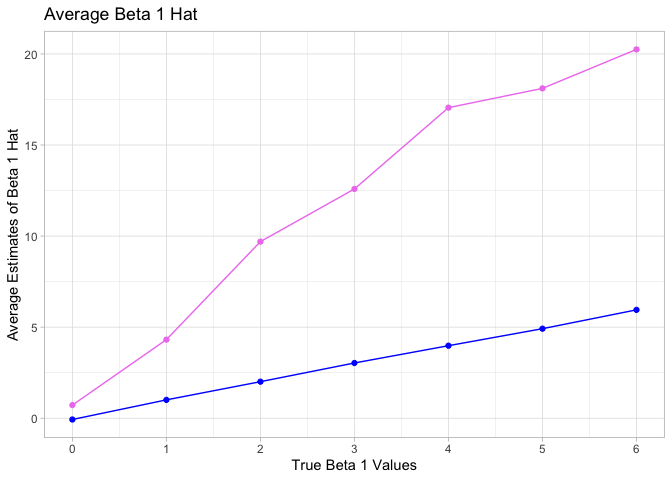
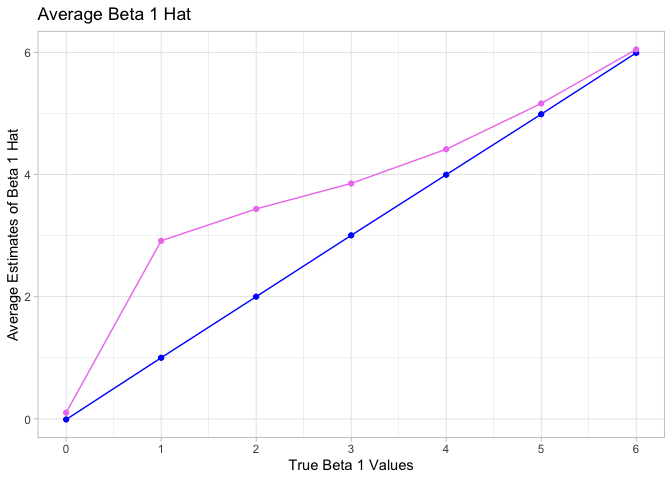
accidentally used variance instead of sd in sim, so fixed that...

diff --git a/p8105_hw5_ps3070.md b/p8105_hw5_ps3070.md
@@ -389,7 +389,7 @@ set.seed(1)
 n = 30
 x_i1 = rnorm(n, 0, 1) #x draws from standard normal dist so mean is 0 and sd is 1
 beta0 = 2
-sd = 50 
+sd = sqrt(50) #variance was given but SD is used in rnorm() function, so I set up SD instead
 
 beta1 = 0
 ```
@@ -406,8 +406,8 @@ Below, I created a simulation function that can do this for me.
 sim = function(n = 30, beta0 = 2, beta1 = 0) {
   
   sim_data = tibble(
-    x_i1 = rnorm(n, mean = 0, sd = 1),
-    y = beta0 + beta1 * x_i1 + rnorm(n, 0, 50)
+    x_i1 = rnorm(n, 0, 1),
+    y = beta0 + beta1 * x_i1 + rnorm(n, 0, sd) #using sd as i set it earlier
   )
   
   ls_fit = lm(y ~ x_i1, data = sim_data) %>% 
@@ -464,7 +464,7 @@ p.value
 0
 </td>
 <td style="text-align:right;">
-5.458878
+0.7720020
 </td>
 <td style="text-align:right;">
 0.6054179
@@ -475,7 +475,7 @@ p.value
 0
 </td>
 <td style="text-align:right;">
-12.446899
+1.7602573
 </td>
 <td style="text-align:right;">
 0.2407264
@@ -486,7 +486,7 @@ p.value
 0
 </td>
 <td style="text-align:right;">
--11.355558
+-1.6059185
 </td>
 <td style="text-align:right;">
 0.3018991
@@ -497,7 +497,7 @@ p.value
 0
 </td>
 <td style="text-align:right;">
--6.657827
+-0.9415590
 </td>
 <td style="text-align:right;">
 0.4087765
@@ -508,7 +508,7 @@ p.value
 0
 </td>
 <td style="text-align:right;">
--1.529837
+-0.2163517
 </td>
 <td style="text-align:right;">
 0.8602248
@@ -519,7 +519,7 @@ p.value
 0
 </td>
 <td style="text-align:right;">
-4.835488
+0.6838412
 </td>
 <td style="text-align:right;">
 0.6574902
@@ -527,7 +527,7 @@ p.value
 </tr>
 </tbody>
 </table>
-Below is a plot showing the proportion of times the null was rejected (power) on the y axis and the true value of *β*<sub>1</sub> on the x axis. As seen in this plot, as effect size increases (i.e. when *β*<sub>1</sub> increases), power also increases. The association is not linear, but it could be exponential or logarithmic.
+Below is a plot showing the proportion of times the null was rejected (power) on the y axis and the true value of *β*<sub>1</sub> on the x axis. As seen in this plot, as effect size increases (i.e. when *β*<sub>1</sub> increases), power also increases. The association is positive but not linear, as seen on the graph below.
 
 ``` r
 power_plot = beta1_sim %>% 
@@ -579,4 +579,4 @@ overlay
 
 ![](p8105_hw5_ps3070_files/figure-markdown_github/overlay%20plots-1.png)
 
-Both plots above show a positive correlation between true *β*<sub>1</sub> values and Beta 1 Hat estimates. The sample average of Beta 1 Hat across tests for which the null is rejected is not approximately equal to the true value of *β*<sub>1</sub>. This could be because rejected p-values (higher p-values) are more likely to have a larger effect size, so estimates of Beta 1 Hat will be larger compared to the true *β*<sub>1</sub> values.
+Both plots above show a positive correlation between true *β*<sub>1</sub> values and Beta 1 Hat estimates. The sample average of Beta 1 Hat across tests for which the null is rejected is not approximately equal to the true value of *β*<sub>1</sub>. This could be because *β*<sub>1</sub> values of rejected p-values (p &gt; 0.05) are more likely to have a larger effect size, which it looks like from this graph from *β*<sub>1</sub> = 1 to 6. Estimates of Beta 1 Hat will be larger compared to the true *β*<sub>1</sub> values, and as the effect size increases, the estimates of Beta 1 Hat among the rejected group come closer to those of the overall group. Where *β*<sub>1</sub> = 0, effect size is 0, so average estimates of Beta 1 Hat are closer to 0 as well.
